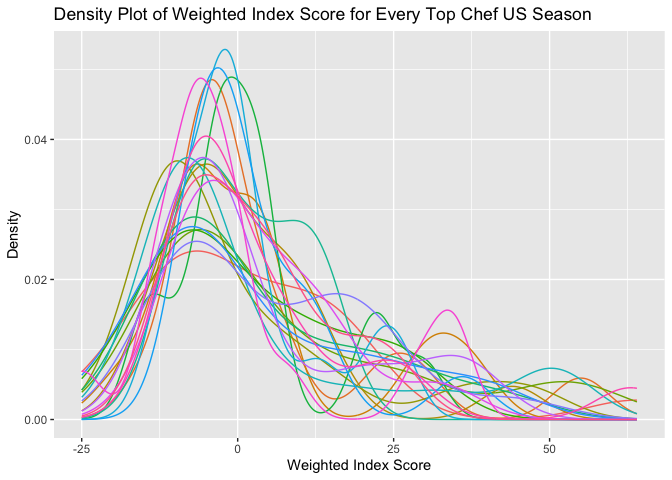
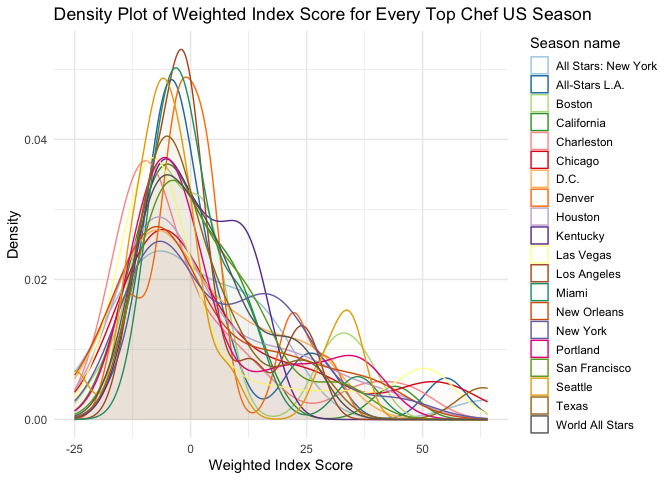
Add more info about distribution of wtd index scores

diff --git a/README.md b/README.md
@@ -1,7 +1,7 @@
 topChef
 ================
 
-## Introduction to topChef
+## 1. Introduction to topChef
 
 topChef is a collection of data sets detailing events across all seasons
 of Top Chef US and Top Chef Masters US and one season of Top Chef
@@ -9,7 +9,7 @@ Canada. It includes Chef information, challenge descriptions, challenge
 winners, episode information, guest judge names, and reward/prize
 information.
 
-## Installation
+## 2. Installation
 
 Not yet on CRAN. So please use:
 *devtools::install.packages(“celevitz/topChef”)*
@@ -18,7 +18,7 @@ Not yet on CRAN. So please use:
 devtools::install_github("celevitz/topChef")
 ```
 
-## References & Acknowlegements
+## 3. References & Acknowlegements
 
 Data were collected manually while watching each season of Top Chef.
 Additional data were collected from
@@ -27,7 +27,7 @@ inspired by <https://topchefstats.com/>.
 
 Huge thanks to <https://github.com/doehm> for all his support!
 
-## Overview of datasets
+## 4. Overview of datasets
 
 Across datasets, key joining variables include:
 
@@ -37,9 +37,9 @@ Across datasets, key joining variables include:
 - `series`
 - `episode`
 
-### Datasets
+### 4.a. Datasets
 
-#### Chef details
+#### 4.a.i. Chef details
 
 A tibble containing information about Chefs for each season they are in,
 including placement and gender. For some but not all seasons, there is
@@ -65,7 +65,7 @@ chefdetails
 #> # ℹ 2 more variables: occupation <chr>, gender <chr>
 ```
 
-#### Challenge descriptions
+#### 4.a.ii. Challenge descriptions
 
 A tibble containing information about each challenge that the Chefs
 compete in.
@@ -93,7 +93,7 @@ challengedescriptions
 #> #   Restaurant.War.eliminated <chr>, Did.judges.visit.winning.team.first <chr>
 ```
 
-#### Challenge wins
+#### 4.a.iii. Challenge wins
 
 A tibble containing win and loss data for each chef in each episode.
 
@@ -116,7 +116,7 @@ challengewins
 #> # ℹ 1 more variable: rating <dbl>
 ```
 
-#### Judges
+#### 4.a.iv. Judges
 
 A tibble containing information about who were the guest judges for each
 challenge.
@@ -140,7 +140,7 @@ judges
 #> # ℹ 2 more variables: competed_on_TC <chr>, other_shows <chr>
 ```
 
-#### Rewards
+#### 4.a.v. Rewards
 
 A tibble containing information about rewards and prizes won by
 challenge.
@@ -164,7 +164,7 @@ rewards
 #> # ℹ 1 more variable: chef <chr>
 ```
 
-#### Episode info
+#### 4.a.vi. Episode info
 
 A tibble containing information about each episode.
 
@@ -187,15 +187,15 @@ episodeinfo
 #> # ℹ 1 more variable: `#.of.competitors` <dbl>
 ```
 
-### Example using multiple datasets
+### 5. Example using multiple datasets
 
-#### How many elimination challenge wins did Top Chef winners have?
+#### 5.a. How many elimination challenge wins did Top Chef winners have?
 
-##### Visualization
+##### 5.a.i. Visualization
 
 ![](README_files/figure-gfm/EliminationWinsForTopChefsVisualization-1.png)<!-- -->
 
-##### Code
+##### 5.a.ii. Code
 
 ``` r
 library(ggplot2)
@@ -234,7 +234,7 @@ chefdetails %>%
     
 ```
 
-## Weighted Index Function
+## 6. Weighted Index Function
 
 I created a weighted index to compare chefs within and across seasons. I
 am still working on it, but this is how things currently stand: The
@@ -273,24 +273,18 @@ series, season name, season number, chef, chef’s placement, number of
 elimination challenges wins/highs/lows/outs, number of quickfire
 challenge wins/highs/lows, and the weighted index score.
 
-### Distribution of Weighted Index Scores
+### 6.a. Distribution of Weighted Index Scores at the Completion of All Seasons
 
-For all Top Chef US seasons, there is a similar distribution of the
-weighted index scores.
+![](README_files/figure-gfm/Viz_DensityPlot-1.png)<!-- -->![](README_files/figure-gfm/Viz_DensityPlot-2.png)<!-- -->![](README_files/figure-gfm/Viz_DensityPlot-3.png)<!-- -->
 
-![](README_files/figure-gfm/Viz_DensityPlot-1.png)<!-- -->
+### 6.b. Examples that use the `weightedindex` function
 
-### Examples that use the `weightedindex` function
-
-The following examples are looking across all seasons through the point
-in the season where there were 10 elimination challenges or 7 quickfire
-challenges.
-
-##### Visualizations
+##### 6.b.i. Visualizations
 
 The circles represent outliers: Michael in Las Vegas, Richard in All
 Stars: New York, Paul in Texas, and Kristen in Seattle. The thick bar
-within the rectangles are the averages of chefs scores in that season.
+within the rectangles are the median scores of chefs scores in that
+season.
 
 ![](README_files/figure-gfm/Viz_IndexAllSeasons-1.png)<!-- -->
 
@@ -300,7 +294,7 @@ Buddha, and Amar thus far have the highest index scores.
 
 ![](README_files/figure-gfm/Viz_IndexTopFour-1.png)<!-- -->
 
-##### Code
+##### 6.b.ii. Code
 
 ``` r
 library(topChef); library(ggplot2); library(tidyverse)
@@ -333,11 +327,7 @@ library(topChef); library(ggplot2); library(tidyverse)
       ggplot(aes(x=seasonnumchar,y=indexWeight) ) +
       geom_boxplot() +
       # add horizontal line at 0
-      geom_rect(aes(xmin=0
-                    ,xmax=20
-                    ,ymin=-.5
-                    ,ymax=0.5)
-                ,fill="#ffbc69") +
+      geom_hline(yintercept=0, color="#ffbc69")  +
       theme_minimal() +
       labs(title=paste0("Top Chef Weighted Index: 7 quickfires & 10 elimination challenges\ninto each season")
            ,subtitle="Comparing All Chefs Across All Seasons\n"
@@ -353,7 +343,7 @@ library(topChef); library(ggplot2); library(tidyverse)
     allseasons[allseasons$placement <= 4,]  %>%
       ggplot(aes(x=placement,y=indexWeight,label=chef) ) +
       # add horizontal line at 0
-      geom_rect(aes(xmin=.5 ,xmax=4.5 ,ymin=-.2 ,ymax=0.2) ,fill="#ffbc69") +
+      geom_hline(yintercept=0, color="#ffbc69")  +
       geom_text(size=2) +
       theme_minimal() +
       labs(title=paste0("Top Chef Weighted Index: 7 quickfires & 10 elimination challenges\ninto each season")
